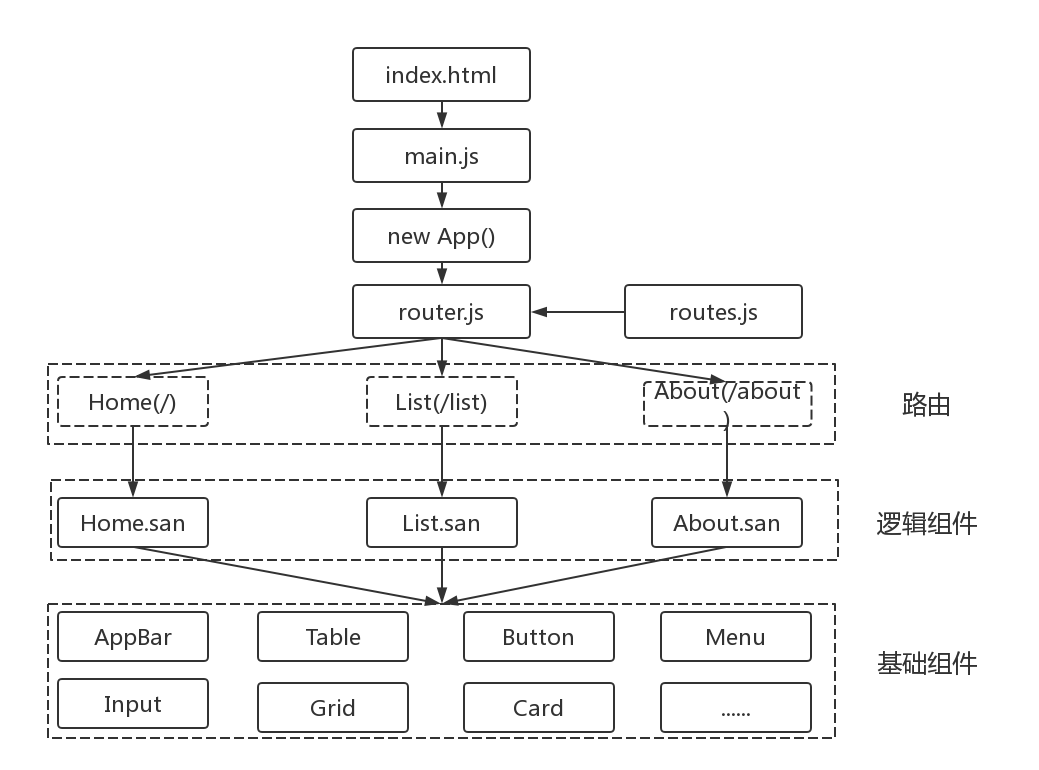
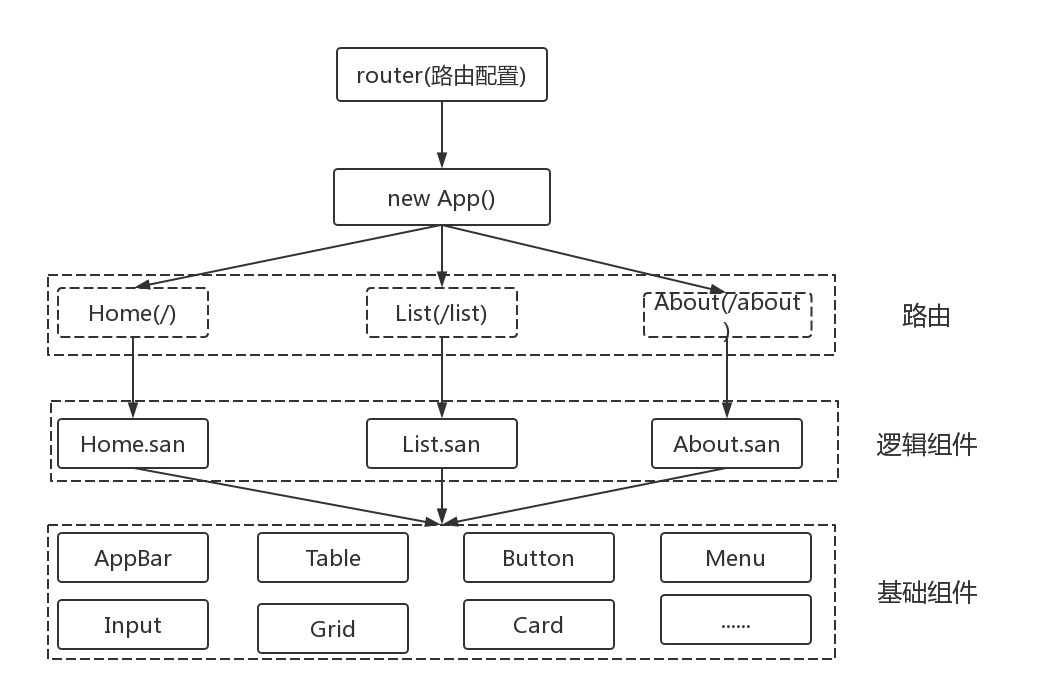
update the md and png

diff --git a/source/_posts/practice/san-router-spa.md b/source/_posts/practice/san-router-spa.md
@@ -6,196 +6,130 @@ categories:
 
 #### 引言
 
-众所周知，Web系统的早期路由是由后端来实现的，服务器根据url来重新加载整个页面。这种做法用户体验不但不好，而且页面若是变得复杂，服务器端的压力也会随之变大。随着ajax的广泛应用，页面能够做到无需刷新浏览器也可更新数据，这也给单页应用和前端路由的出现奠定了基础。因此，在单页应用系统中使用前端路由也十分常见，很多前端框架也提供或者推荐配套使用的路由系统。[san-router](https://github.com/ecomfe/san-router)是[San](https://ecomfe.github.io/san/)框架的官方router，以方便用户基于san构建单页或同构应用为目标。本文也主要来说明实践过程中如何使用san-router来构建一个单页面后台管理系统。
+众所周知，Web系统的早期路由是由后端来实现的，服务器根据URL来重新加载整个页面。这种做法用户体验不但不好，而且页面若是变得复杂，服务器端的压力也会随之变大。随着ajax的广泛应用，页面能够做到无需刷新浏览器也可更新数据，这也给单页应用和前端路由的出现奠定了基础。因此，在单页应用系统中使用前端路由也十分常见，很多前端框架也提供或者推荐配套使用的路由系统。[san-router](https://github.com/ecomfe/san-router)是[San](https://ecomfe.github.io/san/)框架的官方router，以方便用户基于san构建单页或同构应用为目标。本文也主要来说明实践过程中如何使用san-router来构建一个单页面后台管理系统。
 
-#### 项目示例
+#### 示例
 
-<p data-height="365" data-theme-id="dark" data-slug-hash="DzxGNe" data-default-tab="js,result" data-user="sqliang" data-embed-version="2" data-pen-title="san-router-spa" class="codepen">See the Project <a href="https://codepen.io/sqliang/project/full/DzxGNe/">san-router-spa</a> by sqliang (<a href="https://codepen.io/sqliang">@sqliang</a>) on <a href="https://codepen.io">CodePen</a>.</p>
+<p data-height="265" data-theme-id="0" data-slug-hash="VzQeZm" data-default-tab="js,result" data-user="sqliang" data-embed-version="2" data-pen-title="san-router-spa" class="codepen">See the Pen <a href="https://codepen.io/sqliang/pen/VzQeZm/">san-router-spa</a> by sqliang (<a href="https://codepen.io/sqliang">@sqliang</a>) on <a href="https://codepen.io">CodePen</a>.</p>
 <script async src="https://production-assets.codepen.io/assets/embed/ei.js"></script>
 
 
-#### 系统整体结构
+#### 单页应用系统整体结构
 
-> 全部源代码地址：https://github.com/sqliang/san-router-spa
+使用san-router和San构建单页应用的系统主要基于路由和组件。路由处理放在浏览器端来直接响应浏览器地址的变换，分发到对应的路由。在路由发生变化时，不再刷新整个页面，而是通过加载、组合相应的组件，替换需要改变的部分，来向用户呈现对应的界面。整体结构如下图所示：
 
-使用san-router和San构建单页应用的后台系统主要基于路由和组件。路由处理放在浏览器端来直接响应浏览器地址的变换，分发到对应的路由。在路由发生变化时，不再刷新整个页面，而是通过加载、组合相应的组件，替换需要改变的部分，来向用户呈现对应的界面。整体结构如下图所示：
+<img src="../../img/spa_san_router.png" style="display:block;width: 100%;">
 
-<img src="../../img/spa_san_router.png">
+从结构图中可知，整个单页应用后台系统有如下几个特点：
+1. 整个项目只有一个html文件。在用户访问系统浏览器起初只加载html文件，html文件通过引入san和san-router来实现根据路由加载、渲染组件的目的。
+2. san-router通过暴露router对象来添加路由规则和组件对应关系,启动路由,监听路由。
+3. 在创建App组件实例时传入router.js相关路由配置，来达到根据路由加载逻辑组件的目的。
+4. 逻辑组件由多个基础组件组装而成,在路由发生变化时，加载不同的逻辑组件，从而达到向用户呈现对应界面的效果。
 
-由图可知，整个单页应用后台系统有如下几个特点：
-1. 整个项目只有一个html文件，即index.html。在用户访问系统浏览器起初只加载index.html，根据index.html的入口引用加载相关资源文件。
-2. main.js为index.html入口引用文件，在创建App组件实例时传入router.js相关路由配置，来达到根据路由加载逻辑组件的目的。
-3. 逻辑组件由多个基础组件组装而成。在路由发生变化时，加载不同的逻辑组件，从而达到向用户呈现对应界面的效果。
-
-#### 系统入口文件解析
-
-index.html作为单页应用系统的html入口文件,会引用加载相关资源文件:
-
-```html
-// index.html
-<!DOCTYPE html>
-<html>
-  <head>
-    <meta charset="utf-8">
-    <title>XXX管理系统</title>
-  </head>
-  <body>
-    <div id="app"></div>
-  </body>
-</html>
-```
-
-Webpack是目前使用比较广泛的一款模块加载打包工具,能把各种资源作为模块来使用和处理。因此,单页应用系统的开发可以使用Webpack进行相关配置,本文单页index.html引用的入口main.js也是使用Webpack来配置(具体参考示例代码和网上资料)的:
-
-```
-// webpack.base.conf.js
-
-module.exports = {
-  entry: {
-    app: './src/main.js'
-  },
-  output: {
-    path: config.build.assetsRoot,
-    publicPath: process.env.NODE_ENV === 'production' ? config.build.assetsPublicPath : config.dev.assetsPublicPath,
-    filename: '[name].js'
-  },
-  // ...
-}
-```
-
-main.js主要创建App组件实例附加到id为app的div中,使App组件成为系统的基本模板。另外,实例创建过程中通过传入配置好的路由对象,来加载不同的逻辑组件:
-
-```
-// main.js
-
-// 引入style样式
-import 'font-awesome/css/font-awesome.min.css';
-import 'normalize.css/normalize.css';
-import 'san-mui/lib/index.css';
-import './main.css';
-
-// 引入路由
-import router from './router';
- 
-import App from './App.san';
-
-// 创建App实例,传入路由配置
-new App({
-    data: {
-        router
-    }
-}).attach(document.getElementById('app'));
-
-```
-
-App.san作为基本模板组件,布局了整个系统界面不需要更新的部分,搭建出了界面基本的骨架。那些需要更新的部分则是在App组件被附加到页面后,通过调用startRoute()函数启动路由,来加载不同的逻辑组件。
-
-startRoute函数中可以根据传入的router对象来设置路由模式,路由监听,然后启动路由。由此也就可以根据路由的配置,在路由发生变化时,加载不同的逻辑组件,更新数据,呈现给用户不同的内容。
-
-```
-<template>
-<div class="app-container">
-    // ...
-    
-    <div class="app-content">
-        // 逻辑组件加载到id为main的DOM内
-        <div id="main"></div>
-    </div>
-    
-    // ...
-</div>
-</template>
-<script>
-export default {
-    // ...
-    
-    attached() {
-        // 使路由生效
-        this.startRoute();
-    },
-    startRoute() {
-        const router = this.data.get('router');
-        //路由监听
-        router.listen((e, config) => { // e为路由信息对象, config为路由配置对象
-            this.data.set('menuVal', config.rule);
-        });
-        // 路由模式 'html5 | hash'
-        router.setMode('html5');
-        router.start();
-    }
-    
-    // ...
-}
-
-// ...
-</script>
-
-```
 
 #### 路由配置
 
 san-router的router对象用于将特定的URL对应到相应组件类上,在URL变化并匹配路由规则时,将对应组件初始化并渲染到页面中。
 因此,我们可以通过调用router.add({Object}options)来添加路由规则。在options对象中指定Component和target参数,当规则匹配时将对应Component渲染到target上。
 
-> san-router有2种路由规则配置:
+> san-router有两种路由规则配置:
 > rule为string时,URL的path部分与字符串完全匹配才可;
 > rule为RegExp(正则)时,URL的path部分与该正则部分匹配即可。
 
 ```javascript
-// router.js
-import {router} from 'san-router';
-
-import routes from './routes';
-
-routes.forEach(item => {
-    router.add({
-        ...item,
-        target: '#main'
-    });
-});
-
-export default router;
-
-
-// routes.js
-import Home from './pages/Home/Home.san';
-import About from './pages/About/About.san';
-import List from './pages/List/List.san';
-import Add from './pages/Add/Add.san';
-import Edit from './pages/Edit/Edit.san';
-
-export default [
-    {
-        rule: '/',
-        Component: Home
-    },
-    {
-        rule: '/about',
-        Component: About
-    },
-    {
-        rule: '/list',
-        Component: List
-    },
-    {
-        rule: '/list/tag/:tag_id',
-        Component: List
-    },
-    {
-        rule: '/add',
-        Component: Add
-    },
-    {
-        rule: '/edit/:id',
-        Component: Edit
-    }
+// 路由对象router
+let router = sanRouter.router;
+// 路由配置
+const routes = [
+  {
+    rule: '/',
+    Component: Home
+  },
+  {
+    rule: '/list',
+    Component: List
+  },
+  {
+    rule: '/about',
+    Component: About
+  }
 ];
+routes.forEach(item => {
+  router.add({
+    ...item,
+    target: '#main'
+  });
+});
+```
+#### 模板组件创建
+
+App作为系统的模板组件,在创建实例后被附加到id为app的div上。另外,在实例创建过程中,通过传入配置好的路由对象,来加载不同的逻辑组件:
+
+```
+// 创建App实例,附加到id为app的div上
+new App({
+  data: {
+    router
+  }
+}).attach(document.getElementById('app'));
 
 ```
 
+App作为基本模板组件,布局了整个系统界面不需要更新的部分,搭建出了系统界面基本的骨架。那些需要更新的部分则是在App组件被附加到页面后,通过调用startRoute()函数启动路由,来加载不同的逻辑组件。
+
+startRoute函数中可以根据传入的router对象来匹配路由规则,然后启动并监听路由。由此也就可以根据路由的配置,在路由发生变化时,加载不同的逻辑组件,更新数据,呈现给用户不同的内容。
+
+```
+// App Component
+class App extends san.Component {
+  static components = {
+    'router-link': Link
+  };
+  static template = `
+        <div class="app-container">
+          <div class="app-drawer">
+              <div class="drawer-title">
+                <h3>XXX管理系统</h3>
+              </div>
+              <div class="menu">
+                  <ul>
+                      <li><router-link to="/">Home</router-link></li>
+                      <li><router-link to="/list">List</router-link></li>
+                      <li><router-link to="/about">about</router-link></li>
+                  </ul>
+              </div>
+          </div>
+          <div class="app-bar">
+              <div class="user-info">
+                  <span>userName</span>
+              </div>
+          </div>
+          <div class="app-content">
+            <div id="main"></div>
+          </div>
+         </div>
+      `;
+      attached() {
+        //启动路由
+        this.startRoute();
+      }
+      startRoute(){
+        let router = this.data.get('router');
+        router.setMode('html5');
+        // 路由监听
+        router.listen((e, config) => {//
+          // 在路由发生变化时触发
+        });
+        //启动路由
+        router.start();
+      }
+}
+```
+
+
 #### 逻辑组件说明
 
-本文逻辑组件是指通过路由对象渲染到页面中的业务逻辑组件。这些组件(Home,List, About, Add, Edit等)按照业务逻辑,由基础组件库中的组件组装而成,在匹配到对应路由时,进行初始化和渲染。
+本文逻辑组件是指通过路由对象渲染到页面中的业务逻辑组件。这些组件(Home,List, About等)按照业务逻辑,由基础组件库中的组件组装而成,在匹配到对应路由时,进行初始化和渲染。
 
 #### 总结
 
